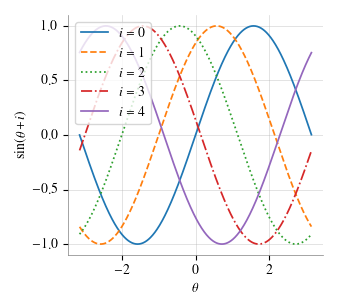
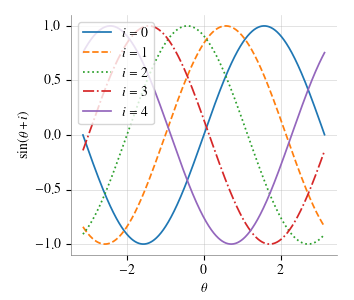
testing

diff --git a/plotsettings.py b/plotsettings.py
@@ -66,8 +66,9 @@ def set(journal="PRD",
     # Figure size
     # onecol_width = 4.2519699737097
     # onecol_height = 2.627861962896592
-    onecol_width = 3.4  # (Phys Rev)
-    twocol_width = 7  # (Phys Rev)
+    cm_to_inch = 1/2.54
+    onecol_width = 9 * cm_to_inch
+    twocol_width = 19 * cm_to_inch
     onecol_height = 3
     # margins
     labelsizes = {"PRD": 10.0,
